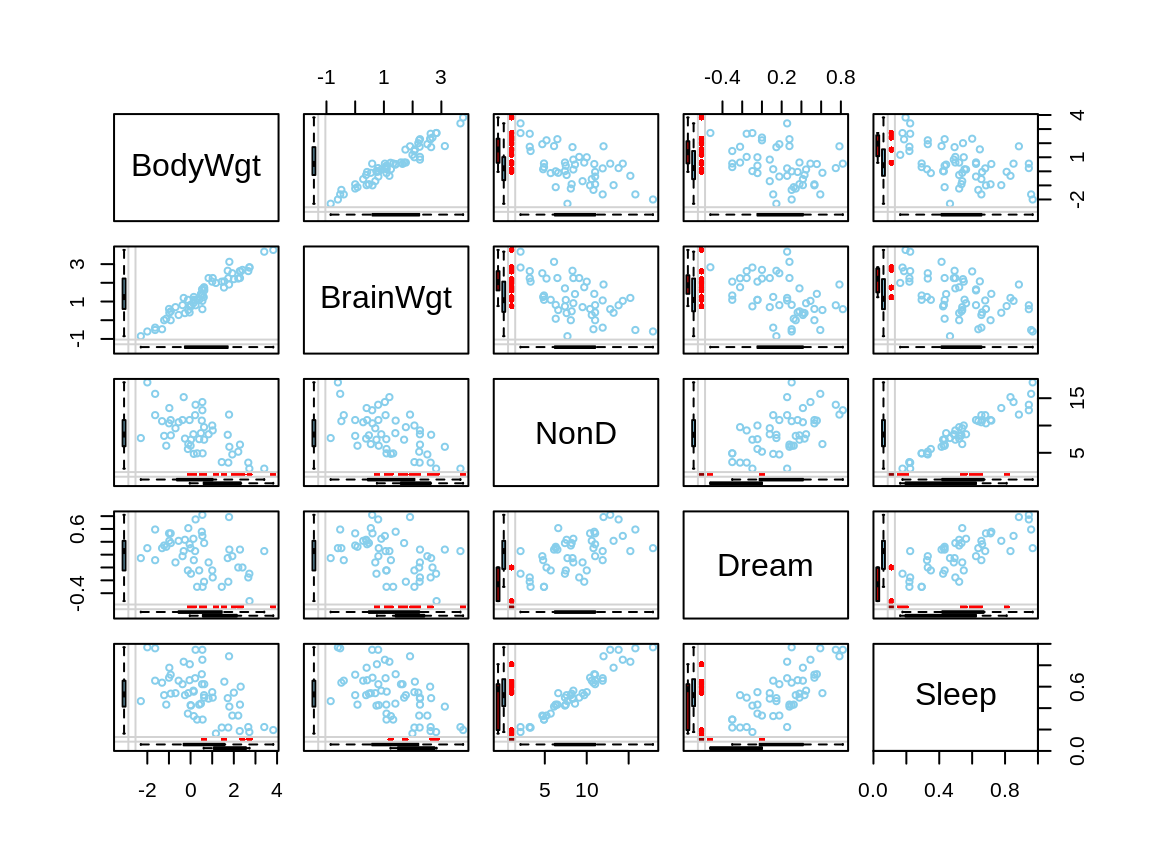
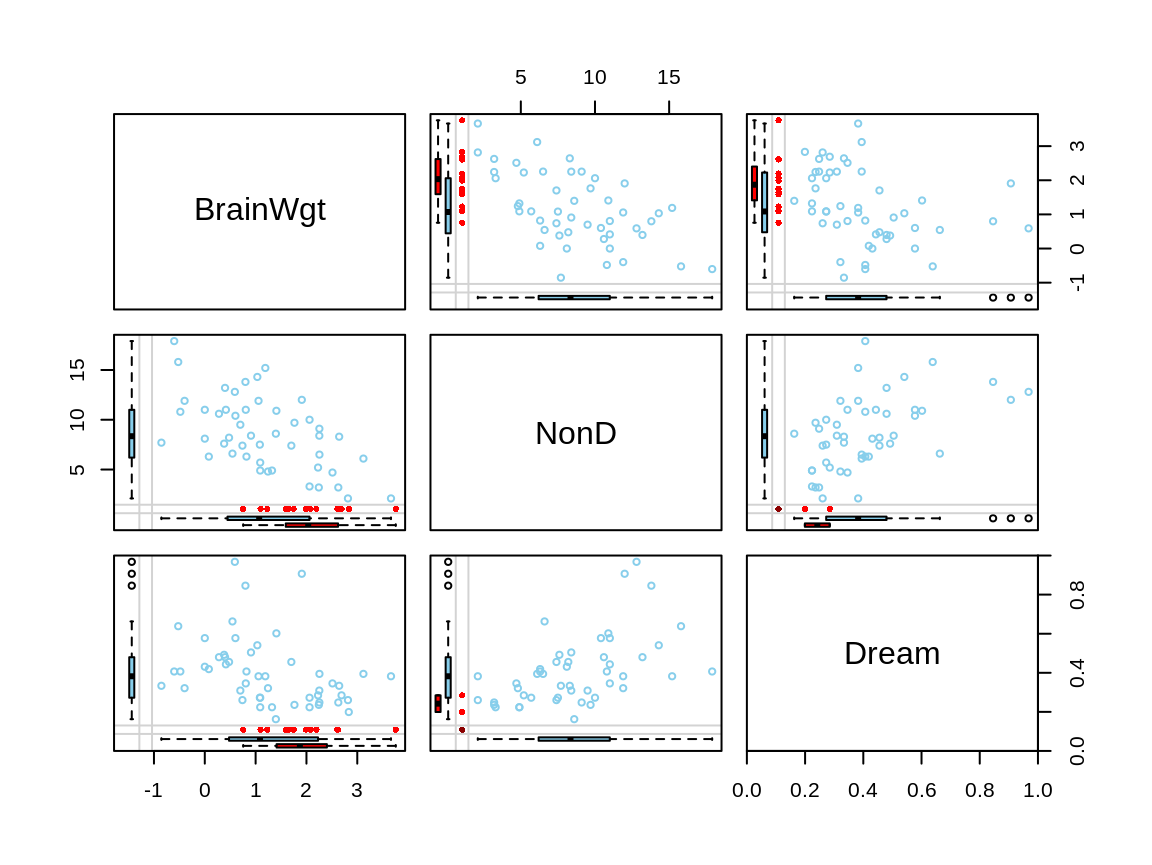
Built site for VIM: 6.0.0@5714740

diff --git a/articles/VisualImp.html b/articles/VisualImp.html
@@ -114,7 +114,7 @@
 <div id="data" class="section level3">
 <h3 class="hasAnchor">
 <a href="#data" class="anchor"></a>Data</h3>
-<p>The following example demonstrates the functionality of the plotting functions using a subset of <code>sleep</code>. In order to emphasize the features of the methods, the missing values in the dataset are imputed via <code><a href="../reference/kNN.html">kNN()</a></code> or <code>regrssionImp()</code>. Both are powerful donor-based imputation methods and also included in the <code>VIM</code> package. (see <code><a href="../articles/donorImp.html">vignette("donorImp")</a></code>)</p>
+<p>The following example demonstrates the functionality of the plotting functions using a subset of <code>sleep</code>. In order to emphasize the features of the methods, the missing values in the dataset are imputed via <code><a href="../reference/kNN.html">kNN()</a></code> or <code><a href="../reference/regressionImp.html">regressionImp()</a></code>. Both are powerful donor-based imputation methods and also included in the <code>VIM</code> package. (see <code><a href="../articles/donorImp.html">vignette("donorImp")</a></code>)</p>
 <div class="sourceCode" id="cb1"><pre class="downlit">
 <span class="fu"><a href="https://rdrr.io/r/base/library.html">library</a></span>(<span class="kw"><a href="https://github.com/statistikat/VIM">VIM</a></span>)
 <span class="fu"><a href="https://rdrr.io/r/base/library.html">library</a></span>(<span class="kw">magrittr</span>)
@@ -164,7 +164,7 @@
 <span class="co">#&gt; There still missing values in variable NonD . Probably due to missing values in the regressors.</span>
 <span class="fu"><a href="../reference/barMiss.html">barMiss</a></span>(<span class="kw">x_IMPUTED</span>, delimiter = <span class="st">"_imp"</span>, only.miss = <span class="fl">FALSE</span>)
 </pre></div>
-<p><img src="VisualImp_files/figure-html/unnamed-chunk-3-2.png" width="576" style="display: block; margin: auto;"></p>
+<p><img src="VisualImp_files/figure-html/unnamed-chunk-3-2.png" width="576" style="display: block; margin: auto;"> The plot indicates that there are still some missings in NonD. This is because the regression model could not be applied to observations, where Sleep is unobserved.</p>
 </div>
 </div>
 <div id="function-scattmiss" class="section level2">
@@ -257,16 +257,16 @@
 <p>The <code><a href="../reference/marginmatrix.html">marginmatrix()</a></code> function creates a scatterplot matrix with information about missing/imputed values in the plot margins of each panel.</p>
 <div class="sourceCode" id="cb14"><pre class="downlit">
 <span class="co">## for missing values</span>
-<span class="kw">x</span> <span class="op">&lt;-</span> <span class="kw">sleep</span>[, <span class="fl">1</span><span class="op">:</span><span class="fl">5</span>]
-<span class="kw">x</span>[,<span class="fu"><a href="https://rdrr.io/r/base/c.html">c</a></span>(<span class="fl">1</span>,<span class="fl">2</span>,<span class="fl">4</span>)] <span class="op">&lt;-</span> <span class="fu"><a href="https://rdrr.io/r/base/Log.html">log10</a></span>(<span class="kw">x</span>[,<span class="fu"><a href="https://rdrr.io/r/base/c.html">c</a></span>(<span class="fl">1</span>,<span class="fl">2</span>,<span class="fl">4</span>)])
+<span class="kw">x</span> <span class="op">&lt;-</span> <span class="kw">sleep</span>[, <span class="fl">2</span><span class="op">:</span><span class="fl">4</span>]
+<span class="kw">x</span>[,<span class="fl">1</span>] <span class="op">&lt;-</span> <span class="fu"><a href="https://rdrr.io/r/base/Log.html">log10</a></span>(<span class="kw">x</span>[,<span class="fl">1</span>])
 <span class="fu"><a href="../reference/marginmatrix.html">marginmatrix</a></span>(<span class="kw">x</span>)
 </pre></div>
 <p><img src="VisualImp_files/figure-html/unnamed-chunk-8-1.png" width="576" style="display: block; margin: auto;"></p>
 <div class="sourceCode" id="cb15"><pre class="downlit">
 
 <span class="co">## for imputed values</span>
-<span class="kw">x_imp</span> <span class="op">&lt;-</span> <span class="fu"><a href="../reference/kNN.html">kNN</a></span>(<span class="kw">sleep</span>[, <span class="fl">1</span><span class="op">:</span><span class="fl">5</span>])
-<span class="kw">x_imp</span>[,<span class="fu"><a href="https://rdrr.io/r/base/c.html">c</a></span>(<span class="fl">1</span>,<span class="fl">2</span>,<span class="fl">4</span>)] <span class="op">&lt;-</span> <span class="fu"><a href="https://rdrr.io/r/base/Log.html">log10</a></span>(<span class="kw">x_imp</span>[,<span class="fu"><a href="https://rdrr.io/r/base/c.html">c</a></span>(<span class="fl">1</span>,<span class="fl">2</span>,<span class="fl">4</span>)])
+<span class="kw">x_imp</span> <span class="op">&lt;-</span> <span class="fu"><a href="../reference/irmi.html">irmi</a></span>(<span class="kw">sleep</span>[, <span class="fl">2</span><span class="op">:</span><span class="fl">4</span>])
+<span class="kw">x_imp</span>[,<span class="fl">1</span>] <span class="op">&lt;-</span> <span class="fu"><a href="https://rdrr.io/r/base/Log.html">log10</a></span>(<span class="kw">x_imp</span>[,<span class="fl">1</span>])
 <span class="fu"><a href="../reference/marginmatrix.html">marginmatrix</a></span>(<span class="kw">x_imp</span>, delimiter = <span class="st">"_imp"</span>)
 </pre></div>
 <p><img src="VisualImp_files/figure-html/unnamed-chunk-8-2.png" width="576" style="display: block; margin: auto;"></p>
